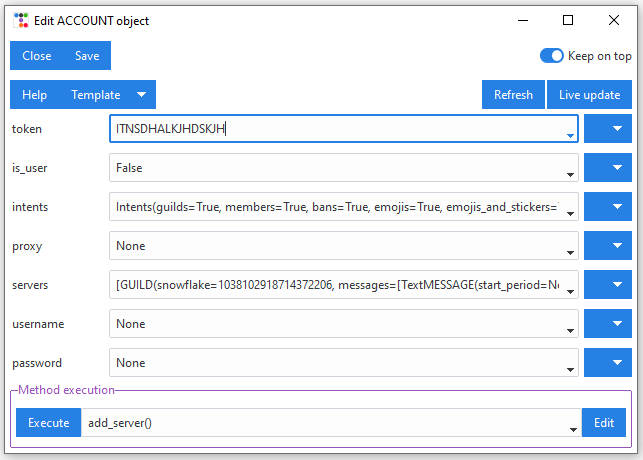
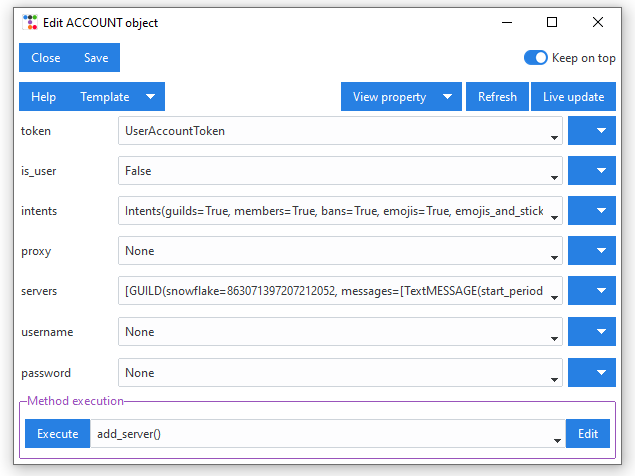
documentation

Changed region(s): [[0.0, 0.0, 1.0, 1.0]]

diff --git a/docs/source/scripts/generate_autodoc.py b/docs/source/scripts/generate_autodoc.py
@@ -2,7 +2,7 @@ from enum import EnumMeta
 import inspect
 import os
 import re
-import pathlib
+from pathlib import Path
 
 OUTPUT_PATH = "../reference"
 
@@ -57,74 +57,92 @@ MANUAL_FUNCTION_TEMPLATE = \
     {docstring}
 """
 
-titles = doc.cat_map
-output_dir = pathlib.Path(OUTPUT_PATH)
+api_types = doc.cat_map
+output_dir = Path(OUTPUT_PATH)
 output_dir.mkdir(parents=True, exist_ok=True)
 with open(os.path.join(OUTPUT_PATH, "index.rst"), "w", encoding="utf-8") as tocwriter:
     tocwriter.write(
         "=======================\n"
         "API reference\n"
-        "=======================\n"
-        "Contain classes and functions description.\n"
-        "\n"
+        "=======================\n\n"
         ".. toctree::\n\n")
 
-    for category, items in titles.items():
-        export_c_items = ""
-        export_f_items = ""
-        for item, manual, path in items:
-            object_name = item.__name__
-            object_path = f"{item.__module__}.{object_name}" if path is None else f"daf.{path}.{object_name}"
-            if inspect.isfunction(item):
-                if manual:
-                    _async_ = ":async:" if inspect.iscoroutinefunction(item) else ""
-                    annotations = item.__annotations__
-                    return_ano = annotations.pop("return")
-                    doc_str = inspect.cleandoc(item.__doc__)
-                    # Replace titles with list titles
-                    doc_str_titles = re.findall(r"[A-z]+\n-+", doc_str)
-                    # Replace numpy style lists
-                    numpy_list = []
-                    numpy_found = re.findall(r"^\w+.*\n {2,}.+", doc_str, re.MULTILINE)
-                    for param in numpy_found:
-                        split_ = param.split(':')
-                        if len(split_) == 2:  # Parameter
-                            name, type_desc = split_
-                            type_, desc = [x.strip() for x in type_desc.split('\n')]
-                            numpy_list.append(f":param {name}: {desc}\n:type {name}: {type_}")
+    # api_type = HTTP / Program, titles = categories.
+    for api_type, titles in api_types.items():
+        api_type_dir = output_dir.joinpath(api_type)
+        api_type_dir.mkdir(exist_ok=True, parents=True)
+        api_type_index = api_type_dir.joinpath("index.rst")
+        unix_styled_api_type_index = '/'.join(api_type_index.relative_to('../reference').parts)
+        tocwriter.write(f"   {str(unix_styled_api_type_index).replace('.rst', '')}\n")
+
+        # Write the toctree of the API type index
+        with open(api_type_dir.joinpath("index.rst"), "w", encoding="utf-8") as index_file:
+            index_file.write(
+                "=======================\n"
+                f"{api_type} reference\n"
+                "=======================\n"
+                f"Contain classes and functions description of the {api_type} API.\n"
+                "\n"
+                ".. toctree::\n\n"
+            )
+
+            for category, items in titles.items():
+                export_c_items = ""  # All classes string
+                export_f_items = ""  # All functions string
+                for item, manual, path in items:
+                    object_name = item.__name__
+                    object_path = f"{item.__module__}.{object_name}" if path is None else f"daf.{path}.{object_name}"
+                    if inspect.isfunction(item):
+                        if manual:
+                            _async_ = ":async:" if inspect.iscoroutinefunction(item) else ""
+                            annotations = item.__annotations__
+                            return_ano = annotations.pop("return")
+                            doc_str = inspect.cleandoc(item.__doc__)
+                            # Replace titles with list titles
+                            doc_str_titles = re.findall(r"[A-z]+\n-+", doc_str)
+                            # Replace numpy style lists
+                            numpy_list = []
+                            numpy_found = re.findall(r"^\w+.*\n {2,}.+", doc_str, re.MULTILINE)
+                            for param in numpy_found:
+                                split_ = param.split(':')
+                                if len(split_) == 2:  # Parameter
+                                    name, type_desc = split_
+                                    type_, desc = [x.strip() for x in type_desc.split('\n')]
+                                    numpy_list.append(f":param {name}: {desc}\n:type {name}: {type_}")
+                                else:
+                                    type_desc = split_[0]
+                                    type_, desc = [x.strip() for x in type_desc.split('\n')]
+                                    numpy_list.append(f":raises {type_}: {desc}")
+
+                            for title in doc_str_titles:
+                                doc_str = doc_str.replace(title, "")
+
+                            for i, numpy in enumerate(numpy_found):
+                                doc_str = doc_str.replace(numpy, numpy_list[i])
+
+                            export_f_items += MANUAL_FUNCTION_TEMPLATE.format(object_name=object_name,
+                                                                            _async_=_async_,
+                                                                            annotations=",".join(f"{k}: {v}" for k, v in annotations.items()),
+                                                                            object_path=object_path,
+                                                                            docstring="\n    ".join(doc_str.splitlines()),
+                                                                            return_=return_ano) + "\n"
                         else:
-                            type_desc = split_[0]
-                            type_, desc = [x.strip() for x in type_desc.split('\n')]
-                            numpy_list.append(f":raises {type_}: {desc}")
+                            export_f_items += AUTO_FUNCTION_TEMPLATE.format(object_name=object_name, object_path=object_path,) + "\n"
+                    elif inspect.isclass(item):
+                        # Fill properties
+                        if isinstance(item, EnumMeta):
+                            export_c_items += AUTO_ENUM_TEMPLATE.format(object_name=object_name, object_path=object_path) + "\n"
+                        else:
+                            export_c_items += AUTO_CLASS_TEMPLATE.format(object_name=object_name, object_path=object_path) + "\n"
 
-                    for title in doc_str_titles:
-                        doc_str = doc_str.replace(title, "")
+                if export_f_items or export_c_items:
+                    toc_entry = f"{category.lower().replace(' ', '_')}"
+                    file_name = os.path.join(OUTPUT_PATH, api_type, f"{toc_entry}.rst")
+                    toc_entry = f"    {toc_entry}\n"
+                    # file_name = <...>/<output>/<Program/HTTP>/<category>.rst
+                    with open(file_name, "w", encoding="utf-8") as writer:
+                        writer.write(CATEGORY_TEMPLATE.format(category_name=category))
+                        writer.write(export_f_items)
+                        writer.write(export_c_items)
 
-                    for i, numpy in enumerate(numpy_found):
-                        doc_str = doc_str.replace(numpy, numpy_list[i])
-
-                    export_f_items += MANUAL_FUNCTION_TEMPLATE.format(object_name=object_name,
-                                                                      _async_=_async_,
-                                                                      annotations=",".join(f"{k}: {v}" for k, v in annotations.items()),
-                                                                      object_path=object_path,
-                                                                      docstring="\n    ".join(doc_str.splitlines()),
-                                                                      return_=return_ano) + "\n"
-                else:
-                    export_f_items += AUTO_FUNCTION_TEMPLATE.format(object_name=object_name, object_path=object_path,) + "\n"
-            elif inspect.isclass(item):
-                # Fill properties
-                if isinstance(item, EnumMeta):
-                    export_c_items += AUTO_ENUM_TEMPLATE.format(object_name=object_name, object_path=object_path) + "\n"
-                else:
-                    export_c_items += AUTO_CLASS_TEMPLATE.format(object_name=object_name, object_path=object_path) + "\n"
-
-        if export_f_items or export_c_items:
-            toc_entry = f"{category.lower().replace(' ', '_')}"
-            file_name = os.path.join(OUTPUT_PATH, f"{toc_entry}.rst")
-            toc_entry = f"    {toc_entry}\n" 
-            with open(file_name, "w", encoding="utf-8") as writer:
-                writer.write(CATEGORY_TEMPLATE.format(category_name=category))
-                writer.write(export_f_items)
-                writer.write(export_c_items)
-
-            tocwriter.write(toc_entry)
+                    index_file.write(toc_entry)

diff --git a/src/daf/misc/doc.py b/src/daf/misc/doc.py
@@ -2,7 +2,7 @@
 Utility module for documentation.
 """
 # Documentation
-from typing import Optional, Dict
+from typing import Optional, Dict, Literal
 from os import environ
 
 
@@ -12,12 +12,15 @@ __all__ = (
 
 DOCUMENTATION_MODE = bool(environ.get("DOCUMENTATION", False))
 if DOCUMENTATION_MODE:
-    cat_map: Dict[str, list] = {}
+    cat_map: Dict[str, list] = {"Program": {}, "HTTP": {}}
 
 
-def doc_category(cat: str,
-                 manual: Optional[bool] = False,
-                 path: Optional[str] = None):
+def doc_category(
+    cat: str,
+    manual: Optional[bool] = False,
+    path: Optional[str] = None,
+    api_type: Literal["Program", "HTTP"] = "Program"
+):
     """
     Used to mark the object for documentation.
     Objects marked with this decorator function will
@@ -32,14 +35,17 @@ def doc_category(cat: str,
         Should be used when dealing with overloads.
     path: Optional[str]
         Custom path to the object.
+    api_type: Literal["Program", "HTTP"]
+        The type of API, the documented item belongs to.
+        Defaults to 'Program'
     """
-    def _category(item):
+    def _category(item):  # item == class or function
         if DOCUMENTATION_MODE:
-            cat_map[cat].append((item, manual, path))
+            cat_map[api_type][cat].append((item, manual, path))
         return item
 
     if DOCUMENTATION_MODE:
-        if cat not in cat_map:
-            cat_map[cat] = []
+        if cat not in cat_map[api_type]:
+            cat_map[api_type][cat] = []
 
     return _category

diff --git a/src/daf/dtypes.py b/src/daf/dtypes.py
@@ -75,7 +75,7 @@ def data_function(fnc: Callable):
         a ``data`` parameter to the :ref:`Messages` objects.
 
 
-    .. literalinclude:: ../DEP/main_data_function.py
+    .. literalinclude:: ../../DEP/main_data_function.py
         :language: python
         :emphasize-lines: 11, 24
     """
@@ -215,7 +215,7 @@ class FILE:
 @doc.doc_category("Types")
 class AUDIO(FILE):
     """
-    Used for streaming audio from file or YouTube.
+    Used for streaming audio from file.
 
     .. deprecated:: 2.10
 

diff --git a/docs/source/guide/GUI/live_view.rst b/docs/source/guide/GUI/live_view.rst
@@ -13,18 +13,28 @@ While the Schema tab allows user to pre-define a schema, the GUI also has a sect
 
 Live view allows users to view and update objects that are currently loaded into the framework.
 It allows users to modify the original object parameters and then reinitialize the object to use those same
-parameters. This can be done by clicking on the *Update* button. Next to the *Update* button, there is a 
-*Refresh* button which will reload the GUI with updated values.
-
+parameters. This can be done by clicking on the **Update** button. Next to the *Update* button, there is a 
+**Refresh** button which will reload the GUI with updated values.
 If an object does not have a *Update* button, that means the object is not directly supported for live modifications.
 In the latter case, users must click the *Save* button, until edit for an object, which supports 
-live update, is found. Clicking on *Save* does not reflect changes in the actual framework, but just in the currently
-opened window. At the end it is recommended users click on refresh in the main window, which will re-load updated values
-to the list.
+live update, is found. **Clicking on Save does not reflect changes in the actual framework**, but just in the currently
+opened window.
+
+When editing / viewing a live object, there is also a **View property** menu button, which allows users to inspect
+additional object properties of the object running inside DAF. This can eg. be used to view the channels, that
+were found using :class:`~daf.message.AutoCHANNEL` object.
+
+
+.. image:: images/gui-live-view-property-view-autochannel.png
+    
+.. image:: images/gui-live-view-autochannel-view-property-channels.png
+
+
+Some live objects like :class:`~daf.client.ACCOUNT` also support **method execution**, where you can eg. add or remove
+servers without updating the entire object.
 
 .. image:: ./images/gui-live-view-edit-account.png
     :align: center
-    :width: 15cm
 
 
 At the top of the *Live view* tab, there's also an *Execute* button with a dropdown menu. It allows you to define a new
